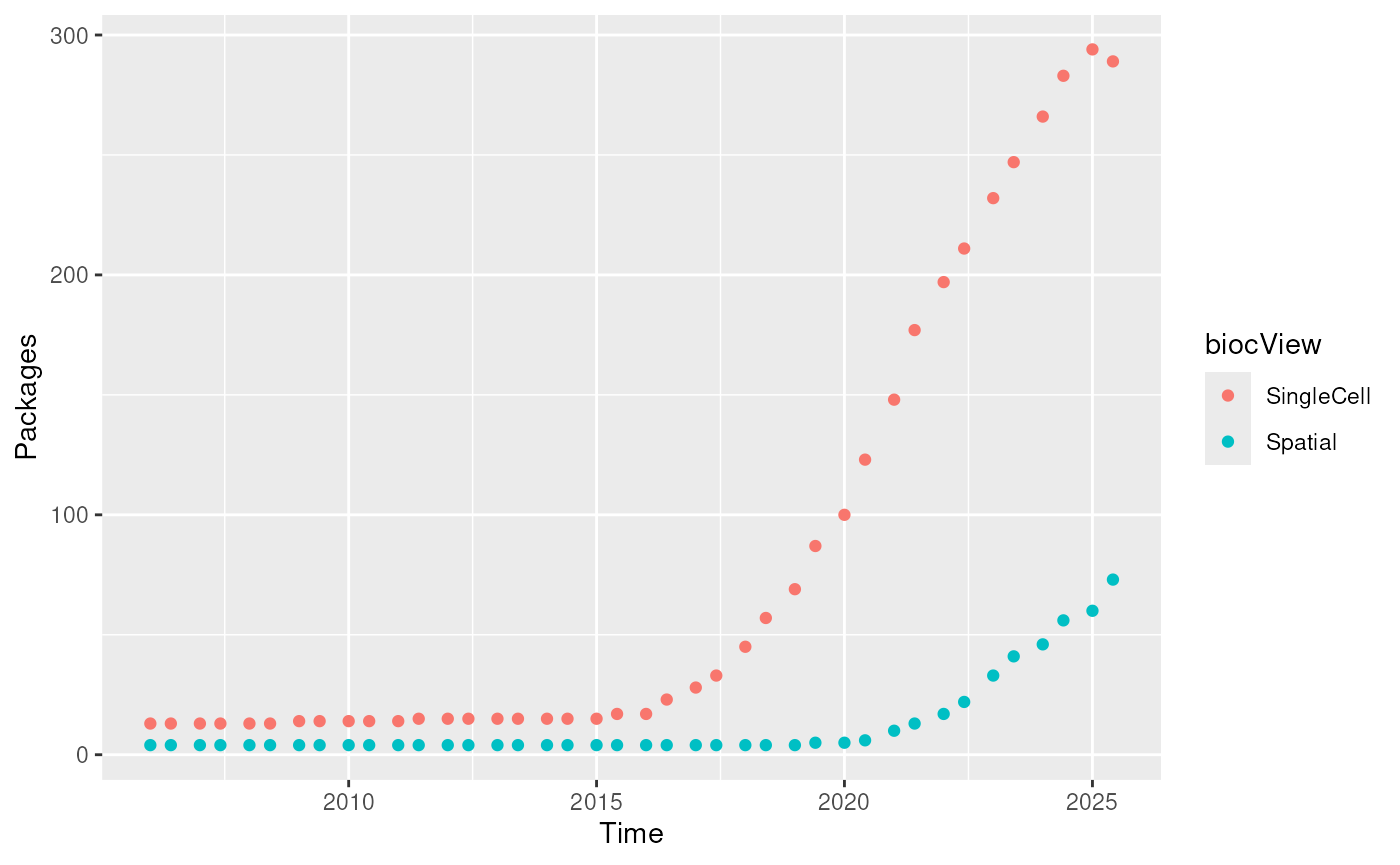
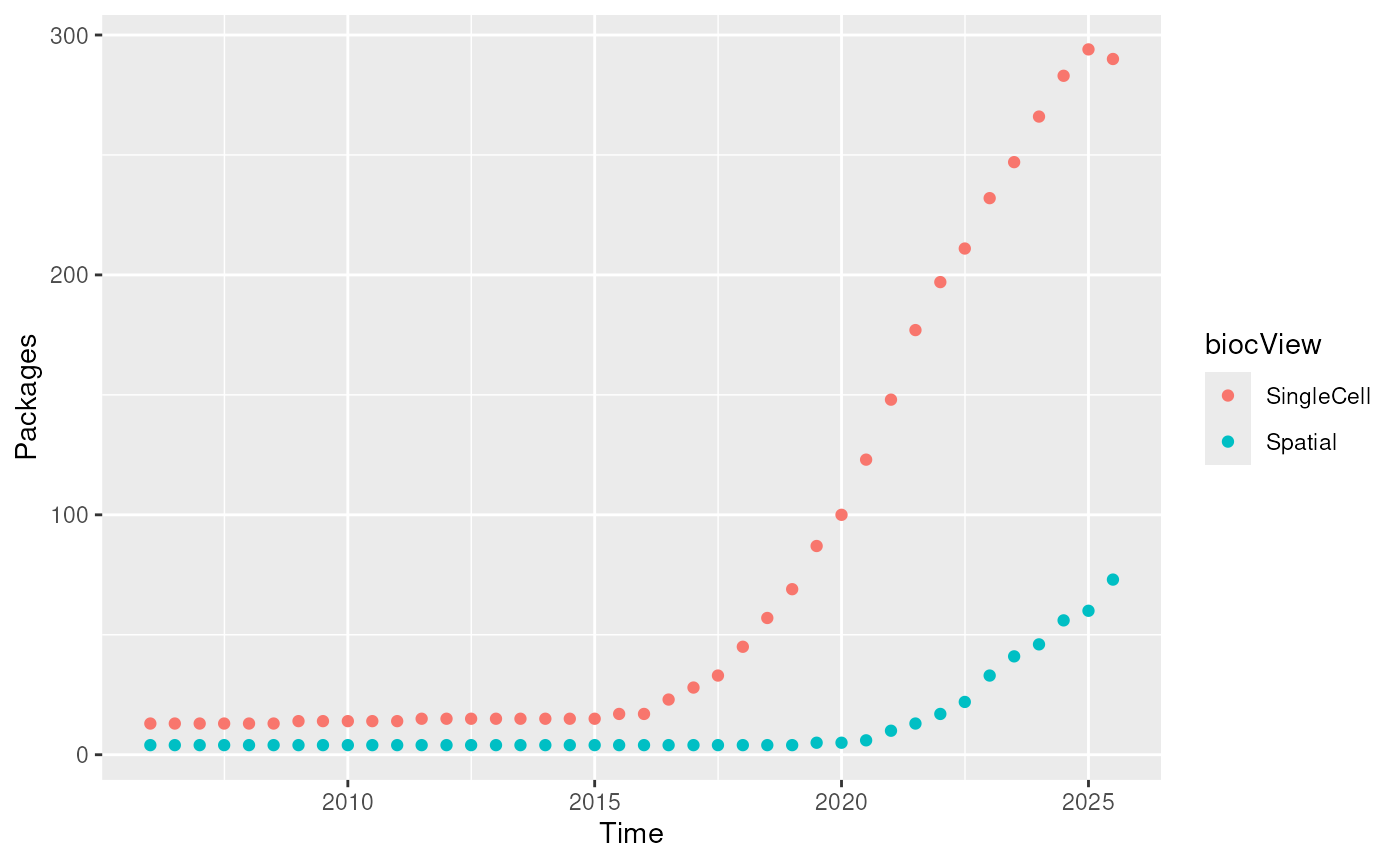
Built site for MyBioconductorPackage@0.99.0: dc8a2de

diff --git a/articles/MyBioconductorPackage.html b/articles/MyBioconductorPackage.html
@@ -65,7 +65,7 @@ Rue-Albrecht</h4>
 Oxford<br><a class="author_email" href="mailto:#"></a><a href="mailto:kevin.rue-albrecht@imm.ox.ac.uk" class="email">kevin.rue-albrecht@imm.ox.ac.uk</a>
       </address>
                   
-            <h4 data-toc-skip class="date">14 October 2025</h4>
+            <h4 data-toc-skip class="date">15 October 2025</h4>
       
 
       <div class="d-none name"><code>MyBioconductorPackage.Rmd</code></div>
@@ -232,15 +232,15 @@ its children) can be obtained as follows:</p>
 <span><span class="co">#&gt;    date       count</span></span>
 <span><span class="co">#&gt;    <span style="color: #949494; font-style: italic;">&lt;date&gt;</span>     <span style="color: #949494; font-style: italic;">&lt;int&gt;</span></span></span>
 <span><span class="co">#&gt; <span style="color: #BCBCBC;"> 1</span> 2006-01-01     4</span></span>
-<span><span class="co">#&gt; <span style="color: #BCBCBC;"> 2</span> 2006-06-01     4</span></span>
+<span><span class="co">#&gt; <span style="color: #BCBCBC;"> 2</span> 2006-07-01     4</span></span>
 <span><span class="co">#&gt; <span style="color: #BCBCBC;"> 3</span> 2007-01-01     4</span></span>
-<span><span class="co">#&gt; <span style="color: #BCBCBC;"> 4</span> 2007-06-01     4</span></span>
+<span><span class="co">#&gt; <span style="color: #BCBCBC;"> 4</span> 2007-07-01     4</span></span>
 <span><span class="co">#&gt; <span style="color: #BCBCBC;"> 5</span> 2008-01-01     4</span></span>
-<span><span class="co">#&gt; <span style="color: #BCBCBC;"> 6</span> 2008-06-01     4</span></span>
+<span><span class="co">#&gt; <span style="color: #BCBCBC;"> 6</span> 2008-07-01     4</span></span>
 <span><span class="co">#&gt; <span style="color: #BCBCBC;"> 7</span> 2009-01-01     4</span></span>
-<span><span class="co">#&gt; <span style="color: #BCBCBC;"> 8</span> 2009-06-01     4</span></span>
+<span><span class="co">#&gt; <span style="color: #BCBCBC;"> 8</span> 2009-07-01     4</span></span>
 <span><span class="co">#&gt; <span style="color: #BCBCBC;"> 9</span> 2010-01-01     4</span></span>
-<span><span class="co">#&gt; <span style="color: #BCBCBC;">10</span> 2010-06-01     4</span></span>
+<span><span class="co">#&gt; <span style="color: #BCBCBC;">10</span> 2010-07-01     4</span></span>
 <span><span class="co">#&gt; <span style="color: #949494;"># ℹ 30 more rows</span></span></span></code></pre></div>
 <p>The output can be instantly plotted using
 <code>BiocStyle::CRANpkg("ggplot2")</code>:</p>
@@ -272,15 +272,15 @@ Count of ‘Spatial’ packages over time.
 <span><span class="co">#&gt;    date       Spatial SingleCell</span></span>
 <span><span class="co">#&gt;    <span style="color: #949494; font-style: italic;">&lt;date&gt;</span>       <span style="color: #949494; font-style: italic;">&lt;int&gt;</span>      <span style="color: #949494; font-style: italic;">&lt;int&gt;</span></span></span>
 <span><span class="co">#&gt; <span style="color: #BCBCBC;"> 1</span> 2006-01-01       4         13</span></span>
-<span><span class="co">#&gt; <span style="color: #BCBCBC;"> 2</span> 2006-06-01       4         13</span></span>
+<span><span class="co">#&gt; <span style="color: #BCBCBC;"> 2</span> 2006-07-01       4         13</span></span>
 <span><span class="co">#&gt; <span style="color: #BCBCBC;"> 3</span> 2007-01-01       4         13</span></span>
-<span><span class="co">#&gt; <span style="color: #BCBCBC;"> 4</span> 2007-06-01       4         13</span></span>
+<span><span class="co">#&gt; <span style="color: #BCBCBC;"> 4</span> 2007-07-01       4         13</span></span>
 <span><span class="co">#&gt; <span style="color: #BCBCBC;"> 5</span> 2008-01-01       4         13</span></span>
-<span><span class="co">#&gt; <span style="color: #BCBCBC;"> 6</span> 2008-06-01       4         13</span></span>
+<span><span class="co">#&gt; <span style="color: #BCBCBC;"> 6</span> 2008-07-01       4         13</span></span>
 <span><span class="co">#&gt; <span style="color: #BCBCBC;"> 7</span> 2009-01-01       4         14</span></span>
-<span><span class="co">#&gt; <span style="color: #BCBCBC;"> 8</span> 2009-06-01       4         14</span></span>
+<span><span class="co">#&gt; <span style="color: #BCBCBC;"> 8</span> 2009-07-01       4         14</span></span>
 <span><span class="co">#&gt; <span style="color: #BCBCBC;"> 9</span> 2010-01-01       4         14</span></span>
-<span><span class="co">#&gt; <span style="color: #BCBCBC;">10</span> 2010-06-01       4         14</span></span>
+<span><span class="co">#&gt; <span style="color: #BCBCBC;">10</span> 2010-07-01       4         14</span></span>
 <span><span class="co">#&gt; <span style="color: #949494;"># ℹ 30 more rows</span></span></span></code></pre></div>
 <p>With a little bit more data wrangling, the output can also be plotted
 for all the terms at once, for instance:</p>
@@ -366,9 +366,9 @@ Cheng, Chang, and Iannone, 2025)</li>
 <span><span class="kw"><a href="https://rdrr.io/r/base/library.html" class="external-link">library</a></span><span class="op">(</span><span class="st"><a href="https://yihui.org/knitr/" class="external-link">"knitr"</a></span><span class="op">)</span></span>
 <span><span class="fu"><a href="https://rdrr.io/pkg/knitr/man/knit.html" class="external-link">knit</a></span><span class="op">(</span><span class="st">"MyBioconductorPackage.Rmd"</span>, tangle <span class="op">=</span> <span class="cn">TRUE</span><span class="op">)</span></span></code></pre></div>
 <p>Date the vignette was generated.</p>
-<pre><code><span><span class="co">#&gt; [1] "2025-10-14 15:55:15 UTC"</span></span></code></pre>
+<pre><code><span><span class="co">#&gt; [1] "2025-10-15 12:51:29 UTC"</span></span></code></pre>
 <p>Wallclock time spent generating the vignette.</p>
-<pre><code><span><span class="co">#&gt; Time difference of 18.066 secs</span></span></code></pre>
+<pre><code><span><span class="co">#&gt; Time difference of 18.96 secs</span></span></code></pre>
 <p><code>R</code> session information.</p>
 <pre><code><span><span class="co">#&gt; <span style="color: #00BBBB; font-weight: bold;">─ Session info ───────────────────────────────────────────────────────────────────────────────────────────────────────</span></span></span>
 <span><span class="co">#&gt;  <span style="color: #555555; font-style: italic;">setting </span> <span style="color: #555555; font-style: italic;">value</span></span></span>
@@ -380,7 +380,7 @@ Cheng, Chang, and Iannone, 2025)</li>
 <span><span class="co">#&gt;  collate  en_US.UTF-8</span></span>
 <span><span class="co">#&gt;  ctype    en_US.UTF-8</span></span>
 <span><span class="co">#&gt;  tz       UTC</span></span>
-<span><span class="co">#&gt;  date     2025-10-14</span></span>
+<span><span class="co">#&gt;  date     2025-10-15</span></span>
 <span><span class="co">#&gt;  pandoc   3.8.1 @ /usr/bin/ (via rmarkdown)</span></span>
 <span><span class="co">#&gt;  quarto   1.7.32 @ /usr/local/bin/quarto</span></span>
 <span><span class="co">#&gt; </span></span>
@@ -435,7 +435,7 @@ Cheng, Chang, and Iannone, 2025)</li>
 <span><span class="co">#&gt;  lubridate               1.9.4     <span style="color: #555555;">2024-12-08</span> <span style="color: #555555;">[1]</span> <span style="color: #BB00BB; font-weight: bold;">RSPM (R 4.5.0)</span></span></span>
 <span><span class="co">#&gt;  magrittr                2.0.4     <span style="color: #555555;">2025-09-12</span> <span style="color: #555555;">[2]</span> <span style="color: #BB00BB; font-weight: bold;">RSPM (R 4.5.0)</span></span></span>
 <span><span class="co">#&gt;  memoise                 2.0.1     <span style="color: #555555;">2021-11-26</span> <span style="color: #555555;">[2]</span> <span style="color: #BB00BB; font-weight: bold;">RSPM (R 4.5.0)</span></span></span>
-<span><span class="co">#&gt;  MyBioconductorPackage * 0.99.0    <span style="color: #555555;">2025-10-14</span> <span style="color: #555555;">[1]</span> <span style="color: #555555;">Bioconductor</span></span></span>
+<span><span class="co">#&gt;  MyBioconductorPackage * 0.99.0    <span style="color: #555555;">2025-10-15</span> <span style="color: #555555;">[1]</span> <span style="color: #555555;">Bioconductor</span></span></span>
 <span><span class="co">#&gt;  pillar                  1.11.1    <span style="color: #555555;">2025-09-17</span> <span style="color: #555555;">[2]</span> <span style="color: #BB00BB; font-weight: bold;">RSPM (R 4.5.0)</span></span></span>
 <span><span class="co">#&gt;  pkgconfig               2.0.3     <span style="color: #555555;">2019-09-22</span> <span style="color: #555555;">[2]</span> <span style="color: #BB00BB; font-weight: bold;">RSPM (R 4.5.0)</span></span></span>
 <span><span class="co">#&gt;  pkgdown                 2.1.3     <span style="color: #555555;">2025-05-25</span> <span style="color: #555555;">[2]</span> <span style="color: #BB00BB; font-weight: bold;">RSPM (R 4.5.0)</span></span></span>

diff --git a/reference/get_view_counts_over_time.html b/reference/get_view_counts_over_time.html
@@ -99,15 +99,15 @@ See vignette 'Optimisations' for a more comprehensive discussion and demonstrati
 <span class="r-out co"><span class="r-pr">#&gt;</span>    date       count</span>
 <span class="r-out co"><span class="r-pr">#&gt;</span>    <span style="color: #949494; font-style: italic;">&lt;date&gt;</span>     <span style="color: #949494; font-style: italic;">&lt;int&gt;</span></span>
 <span class="r-out co"><span class="r-pr">#&gt;</span> <span style="color: #BCBCBC;"> 1</span> 2006-01-01    13</span>
-<span class="r-out co"><span class="r-pr">#&gt;</span> <span style="color: #BCBCBC;"> 2</span> 2006-06-01    13</span>
+<span class="r-out co"><span class="r-pr">#&gt;</span> <span style="color: #BCBCBC;"> 2</span> 2006-07-01    13</span>
 <span class="r-out co"><span class="r-pr">#&gt;</span> <span style="color: #BCBCBC;"> 3</span> 2007-01-01    13</span>
-<span class="r-out co"><span class="r-pr">#&gt;</span> <span style="color: #BCBCBC;"> 4</span> 2007-06-01    13</span>
+<span class="r-out co"><span class="r-pr">#&gt;</span> <span style="color: #BCBCBC;"> 4</span> 2007-07-01    13</span>
 <span class="r-out co"><span class="r-pr">#&gt;</span> <span style="color: #BCBCBC;"> 5</span> 2008-01-01    13</span>
-<span class="r-out co"><span class="r-pr">#&gt;</span> <span style="color: #BCBCBC;"> 6</span> 2008-06-01    13</span>
+<span class="r-out co"><span class="r-pr">#&gt;</span> <span style="color: #BCBCBC;"> 6</span> 2008-07-01    13</span>
 <span class="r-out co"><span class="r-pr">#&gt;</span> <span style="color: #BCBCBC;"> 7</span> 2009-01-01    14</span>
-<span class="r-out co"><span class="r-pr">#&gt;</span> <span style="color: #BCBCBC;"> 8</span> 2009-06-01    14</span>
+<span class="r-out co"><span class="r-pr">#&gt;</span> <span style="color: #BCBCBC;"> 8</span> 2009-07-01    14</span>
 <span class="r-out co"><span class="r-pr">#&gt;</span> <span style="color: #BCBCBC;"> 9</span> 2010-01-01    14</span>
-<span class="r-out co"><span class="r-pr">#&gt;</span> <span style="color: #BCBCBC;">10</span> 2010-06-01    14</span>
+<span class="r-out co"><span class="r-pr">#&gt;</span> <span style="color: #BCBCBC;">10</span> 2010-07-01    14</span>
 <span class="r-out co"><span class="r-pr">#&gt;</span> <span style="color: #949494;"># ℹ 30 more rows</span></span>
 <span class="r-in"><span><span class="fu">get_views_counts_over_time</span><span class="op">(</span><span class="fu"><a href="https://rdrr.io/r/base/c.html" class="external-link">c</a></span><span class="op">(</span><span class="st">"Spatial"</span>, <span class="st">"SingleCell"</span><span class="op">)</span><span class="op">)</span></span></span>
 <span class="r-msg co"><span class="r-pr">#&gt;</span> 'getOption("repos")' replaces Bioconductor standard repositories, see</span>
@@ -119,15 +119,15 @@ See vignette 'Optimisations' for a more comprehensive discussion and demonstrati
 <span class="r-out co"><span class="r-pr">#&gt;</span>    date       Spatial SingleCell</span>
 <span class="r-out co"><span class="r-pr">#&gt;</span>    <span style="color: #949494; font-style: italic;">&lt;date&gt;</span>       <span style="color: #949494; font-style: italic;">&lt;int&gt;</span>      <span style="color: #949494; font-style: italic;">&lt;int&gt;</span></span>
 <span class="r-out co"><span class="r-pr">#&gt;</span> <span style="color: #BCBCBC;"> 1</span> 2006-01-01       4         13</span>
-<span class="r-out co"><span class="r-pr">#&gt;</span> <span style="color: #BCBCBC;"> 2</span> 2006-06-01       4         13</span>
+<span class="r-out co"><span class="r-pr">#&gt;</span> <span style="color: #BCBCBC;"> 2</span> 2006-07-01       4         13</span>
 <span class="r-out co"><span class="r-pr">#&gt;</span> <span style="color: #BCBCBC;"> 3</span> 2007-01-01       4         13</span>
-<span class="r-out co"><span class="r-pr">#&gt;</span> <span style="color: #BCBCBC;"> 4</span> 2007-06-01       4         13</span>
+<span class="r-out co"><span class="r-pr">#&gt;</span> <span style="color: #BCBCBC;"> 4</span> 2007-07-01       4         13</span>
 <span class="r-out co"><span class="r-pr">#&gt;</span> <span style="color: #BCBCBC;"> 5</span> 2008-01-01       4         13</span>
-<span class="r-out co"><span class="r-pr">#&gt;</span> <span style="color: #BCBCBC;"> 6</span> 2008-06-01       4         13</span>
+<span class="r-out co"><span class="r-pr">#&gt;</span> <span style="color: #BCBCBC;"> 6</span> 2008-07-01       4         13</span>
 <span class="r-out co"><span class="r-pr">#&gt;</span> <span style="color: #BCBCBC;"> 7</span> 2009-01-01       4         14</span>
-<span class="r-out co"><span class="r-pr">#&gt;</span> <span style="color: #BCBCBC;"> 8</span> 2009-06-01       4         14</span>
+<span class="r-out co"><span class="r-pr">#&gt;</span> <span style="color: #BCBCBC;"> 8</span> 2009-07-01       4         14</span>
 <span class="r-out co"><span class="r-pr">#&gt;</span> <span style="color: #BCBCBC;"> 9</span> 2010-01-01       4         14</span>
-<span class="r-out co"><span class="r-pr">#&gt;</span> <span style="color: #BCBCBC;">10</span> 2010-06-01       4         14</span>
+<span class="r-out co"><span class="r-pr">#&gt;</span> <span style="color: #BCBCBC;">10</span> 2010-07-01       4         14</span>
 <span class="r-out co"><span class="r-pr">#&gt;</span> <span style="color: #949494;"># ℹ 30 more rows</span></span>
 </code></pre></div>
     </div>

diff --git a/articles/Optimisations.html b/articles/Optimisations.html
@@ -64,7 +64,7 @@ Rue-Albrecht</h4>
 Oxford<br><a class="author_email" href="mailto:#"></a><a href="mailto:kevin.rue-albrecht@imm.ox.ac.uk" class="email">kevin.rue-albrecht@imm.ox.ac.uk</a>
       </address>
                   
-            <h4 data-toc-skip class="date">14 October 2025</h4>
+            <h4 data-toc-skip class="date">15 October 2025</h4>
       
 
       <div class="d-none name"><code>Optimisations.Rmd</code></div>
@@ -186,9 +186,9 @@ Cheng, Chang, and Iannone, 2025)</li>
 <span><span class="kw"><a href="https://rdrr.io/r/base/library.html" class="external-link">library</a></span><span class="op">(</span><span class="st"><a href="https://yihui.org/knitr/" class="external-link">"knitr"</a></span><span class="op">)</span></span>
 <span><span class="fu"><a href="https://rdrr.io/pkg/knitr/man/knit.html" class="external-link">knit</a></span><span class="op">(</span><span class="st">"MyBioconductorPackage.Rmd"</span>, tangle <span class="op">=</span> <span class="cn">TRUE</span><span class="op">)</span></span></code></pre></div>
 <p>Date the vignette was generated.</p>
-<pre><code><span><span class="co">#&gt; [1] "2025-10-14 15:55:23 UTC"</span></span></code></pre>
+<pre><code><span><span class="co">#&gt; [1] "2025-10-15 12:51:38 UTC"</span></span></code></pre>
 <p>Wallclock time spent generating the vignette.</p>
-<pre><code><span><span class="co">#&gt; Time difference of 3.864 secs</span></span></code></pre>
+<pre><code><span><span class="co">#&gt; Time difference of 4.151 secs</span></span></code></pre>
 <p><code>R</code> session information.</p>
 <pre><code><span><span class="co">#&gt; <span style="color: #00BBBB; font-weight: bold;">─ Session info ───────────────────────────────────────────────────────────────────────────────────────────────────────</span></span></span>
 <span><span class="co">#&gt;  <span style="color: #555555; font-style: italic;">setting </span> <span style="color: #555555; font-style: italic;">value</span></span></span>
@@ -200,7 +200,7 @@ Cheng, Chang, and Iannone, 2025)</li>
 <span><span class="co">#&gt;  collate  en_US.UTF-8</span></span>
 <span><span class="co">#&gt;  ctype    en_US.UTF-8</span></span>
 <span><span class="co">#&gt;  tz       UTC</span></span>
-<span><span class="co">#&gt;  date     2025-10-14</span></span>
+<span><span class="co">#&gt;  date     2025-10-15</span></span>
 <span><span class="co">#&gt;  pandoc   3.8.1 @ /usr/bin/ (via rmarkdown)</span></span>
 <span><span class="co">#&gt;  quarto   1.7.32 @ /usr/local/bin/quarto</span></span>
 <span><span class="co">#&gt; </span></span>
@@ -251,7 +251,7 @@ Cheng, Chang, and Iannone, 2025)</li>
 <span><span class="co">#&gt;  lubridate               1.9.4     <span style="color: #555555;">2024-12-08</span> <span style="color: #555555;">[1]</span> <span style="color: #BB00BB; font-weight: bold;">RSPM (R 4.5.0)</span></span></span>
 <span><span class="co">#&gt;  magrittr                2.0.4     <span style="color: #555555;">2025-09-12</span> <span style="color: #555555;">[2]</span> <span style="color: #BB00BB; font-weight: bold;">RSPM (R 4.5.0)</span></span></span>
 <span><span class="co">#&gt;  memoise                 2.0.1     <span style="color: #555555;">2021-11-26</span> <span style="color: #555555;">[2]</span> <span style="color: #BB00BB; font-weight: bold;">RSPM (R 4.5.0)</span></span></span>
-<span><span class="co">#&gt;  MyBioconductorPackage * 0.99.0    <span style="color: #555555;">2025-10-14</span> <span style="color: #555555;">[1]</span> <span style="color: #555555;">Bioconductor</span></span></span>
+<span><span class="co">#&gt;  MyBioconductorPackage * 0.99.0    <span style="color: #555555;">2025-10-15</span> <span style="color: #555555;">[1]</span> <span style="color: #555555;">Bioconductor</span></span></span>
 <span><span class="co">#&gt;  pillar                  1.11.1    <span style="color: #555555;">2025-09-17</span> <span style="color: #555555;">[2]</span> <span style="color: #BB00BB; font-weight: bold;">RSPM (R 4.5.0)</span></span></span>
 <span><span class="co">#&gt;  pkgconfig               2.0.3     <span style="color: #555555;">2019-09-22</span> <span style="color: #555555;">[2]</span> <span style="color: #BB00BB; font-weight: bold;">RSPM (R 4.5.0)</span></span></span>
 <span><span class="co">#&gt;  pkgdown                 2.1.3     <span style="color: #555555;">2025-05-25</span> <span style="color: #555555;">[2]</span> <span style="color: #BB00BB; font-weight: bold;">RSPM (R 4.5.0)</span></span></span>
